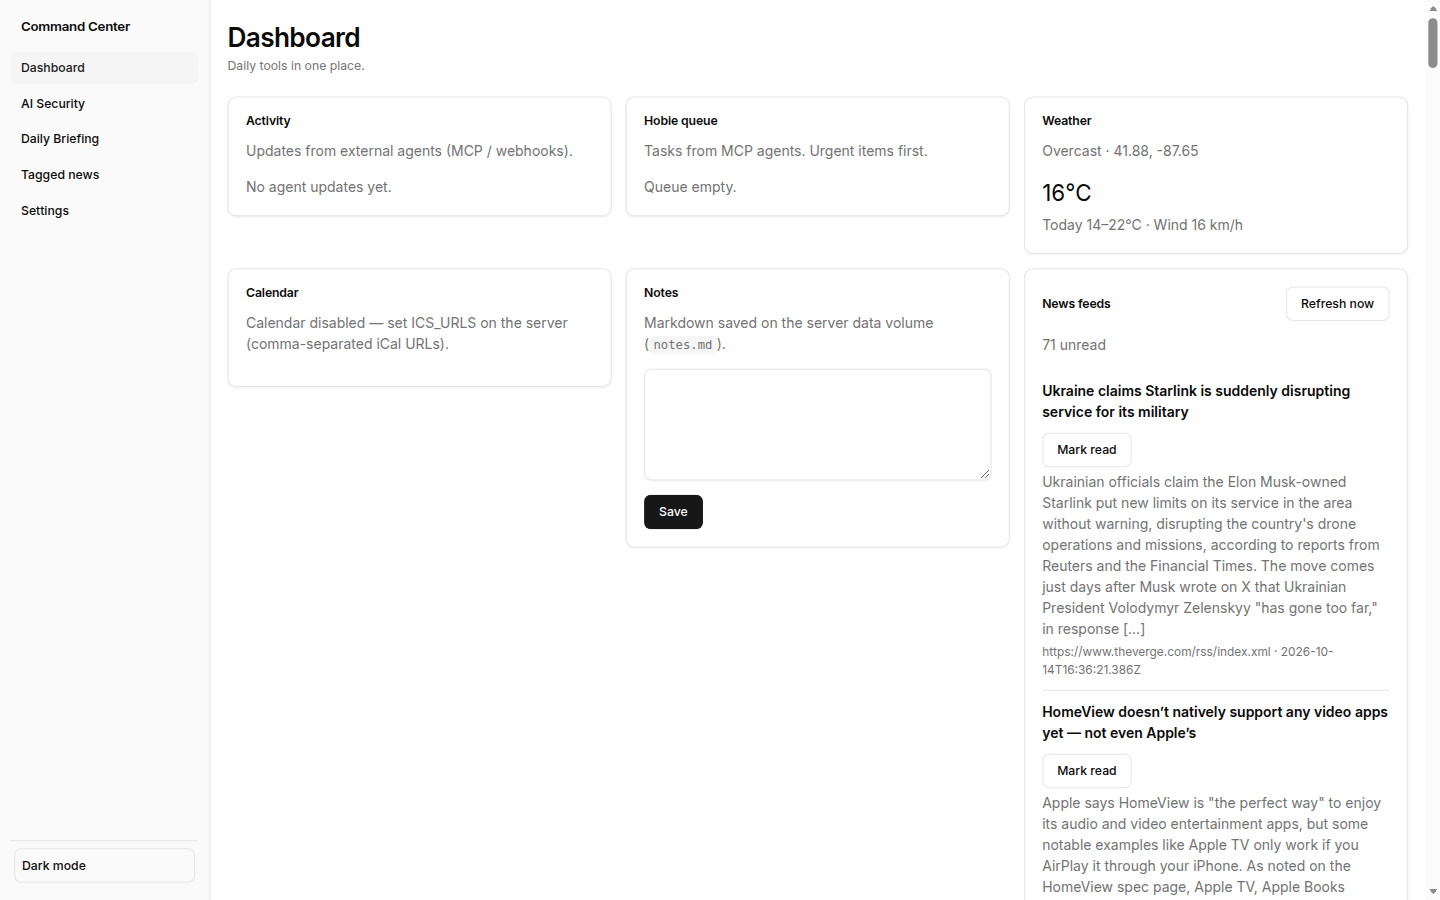
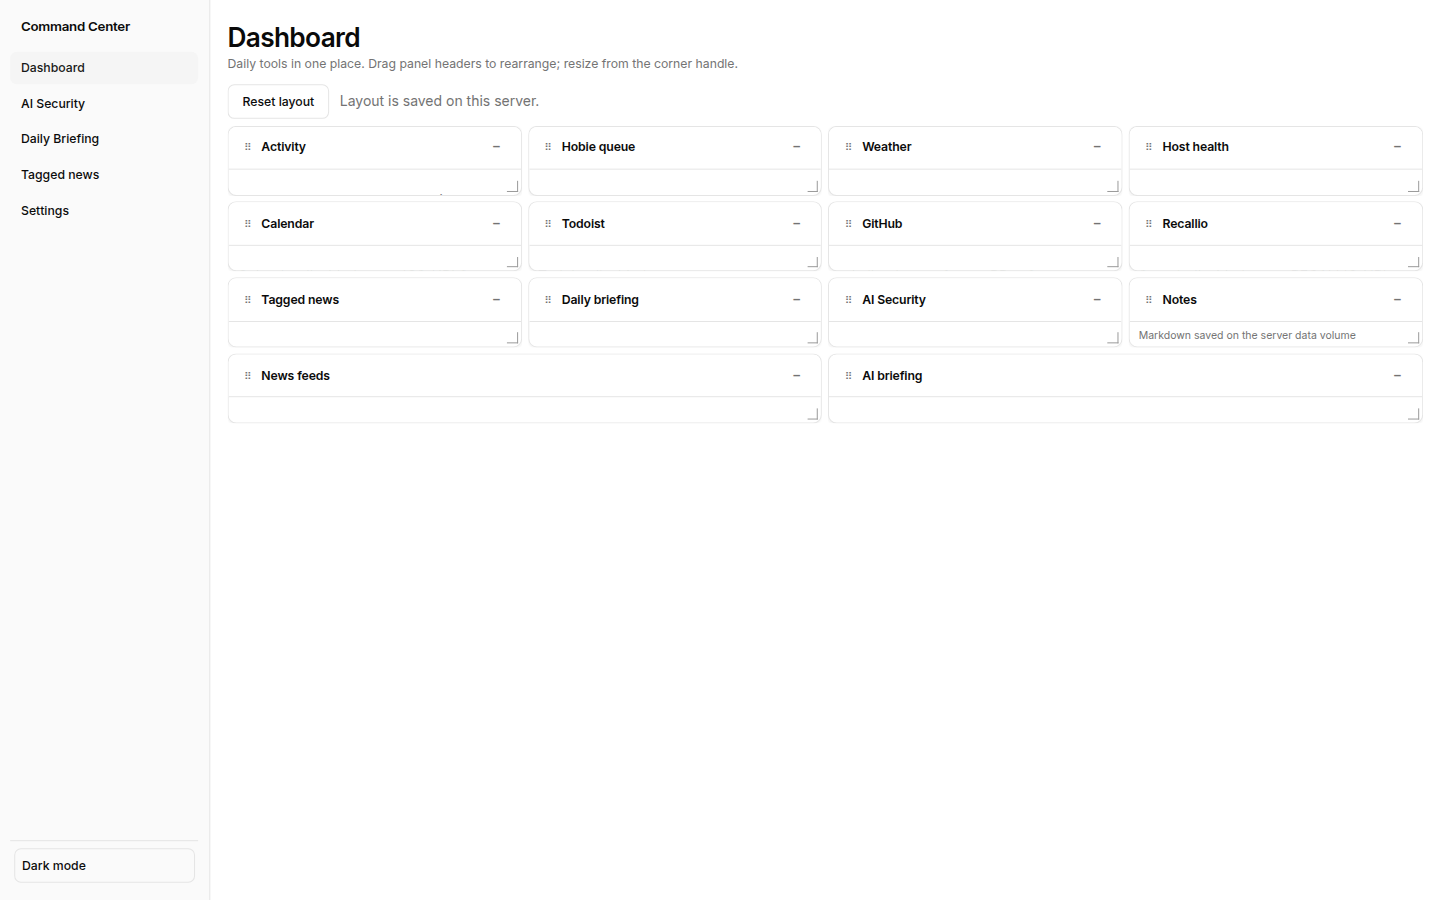
Fix compact dashboard: layout v2, capped feeds, no page scroll
SSR default grid positions, stricter tile overflow, headlines-only feeds
with expandable summaries, v1 layout migration, and 32px/8-row default.

diff --git a/apps/server/src/ui/dashboard-grid.ts b/apps/server/src/ui/dashboard-grid.ts
@@ -3,11 +3,18 @@
 export const dashboardGridCss = `
 .dashboard-toolbar{display:flex;flex-wrap:wrap;gap:.75rem;align-items:center;margin-bottom:1rem}
 .dashboard-toolbar .dim{margin:0}
+.app-main:has(.dashboard-page){overflow:hidden;max-height:100vh}
+.page-content:has(.dashboard-page){max-height:100vh;overflow:hidden;padding-bottom:.75rem;box-sizing:border-box}
+.dashboard-page{overflow:hidden;max-height:100%}
+.dashboard-page .page-header{margin-bottom:.75rem}
+.dashboard-page .page-header p{margin:.2rem 0 0}
+.dashboard-page .dashboard-toolbar{margin-bottom:.5rem}
 .dashboard-grid{
-  display:grid;grid-template-columns:repeat(12,minmax(0,1fr));gap:var(--dash-gap,8px);
-  grid-auto-rows:var(--dash-row,36px);position:relative;min-height:12rem;touch-action:none}
+  display:grid;grid-template-columns:repeat(12,minmax(0,1fr));gap:var(--dash-gap,6px);
+  grid-auto-rows:var(--dash-row,32px);position:relative;touch-action:none;
+  max-height:calc(100vh - 10.5rem);overflow:hidden}
 .dashboard-item{
-  min-width:0;min-height:0;display:flex;flex-direction:column;position:relative;
+  min-width:0;min-height:0;max-height:100%;overflow:hidden;display:flex;flex-direction:column;position:relative;
   grid-column:var(--gc-start)/span var(--gc-span);grid-row:var(--gr-start)/span var(--gr-span)}
 .dashboard-item.is-dragging{opacity:.92;z-index:30;box-shadow:0 8px 24px rgba(0,0,0,.12)}
 .dashboard-item.is-collapsed .dashboard-panel-body{display:none}
@@ -26,7 +33,8 @@ export const dashboardGridCss = `
 .dashboard-collapse{
   border:0;background:transparent;color:var(--muted-foreground);min-width:2rem;min-height:2rem;
   padding:.25rem;border-radius:calc(var(--radius) - 4px);font-size:1rem;line-height:1;cursor:pointer}
-.dashboard-panel-body{flex:1;min-height:0;overflow:auto;padding:.75rem 1rem 1rem;display:flex;flex-direction:column;gap:.5rem}
+.dashboard-panel-body{flex:1;min-height:0;overflow:hidden;padding:.5rem .65rem .65rem;display:flex;flex-direction:column;gap:.35rem}
+.dashboard-panel-body .panel-scroll-region{flex:1;min-height:0;overflow:auto}
 .dashboard-panel-body>.row:first-child{display:none}
 .dashboard-panel-body>h2:first-child{display:none}
 .dashboard-resize{
@@ -36,10 +44,18 @@ export const dashboardGridCss = `
   content:"";position:absolute;right:2px;bottom:2px;width:10px;height:10px;
   border-right:2px solid var(--muted-foreground);border-bottom:2px solid var(--muted-foreground);opacity:.7}
 .dashboard-item.is-collapsed .dashboard-resize{display:none}
-.dashboard-panel-scroll,.dashboard-panel-body #tn-list,.dashboard-panel-body #pdb-body,.dashboard-panel-body #as-dash-body{
-  flex:1;min-height:0;overflow:auto}
-#panel-feeds .feeds-panel-scroll,#panel-tagged-news .feeds-panel-scroll{max-height:9.5rem;border:1px solid var(--border);
-  border-radius:calc(var(--radius) - 2px);padding:0 .75rem}
+.feeds-panel-scroll{flex:1;min-height:0;overflow:auto;border:1px solid var(--border);
+  border-radius:calc(var(--radius) - 2px);padding:0 .5rem}
+.feed-headline{display:flex;gap:.35rem;align-items:flex-start;justify-content:space-between}
+.feed-headline summary{cursor:pointer;list-style:none;font-weight:600}
+.feed-headline summary::-webkit-details-marker{display:none}
+.feed-headline summary::before{content:"▸ ";font-size:.7rem;color:var(--muted-foreground)}
+details.feed-item[open] .feed-headline summary::before{content:"▾ "}
+.feed-item .feed-summary{margin:.25rem 0 .35rem;font-size:.8125rem}
+.feed-item .feed-meta{margin:0;font-size:.75rem}
+#panel-notes #notes-editor{min-height:0;max-height:4.5rem;resize:vertical;font-size:.8125rem}
+#panel-briefing #briefing-body{max-height:4.5rem;margin:0;font-size:.75rem}
+#panel-notes .dim{font-size:.75rem;margin:0}
 #panel-feeds .feeds-full-link{margin:.25rem 0 0;font-size:.8125rem}
 #panel-feeds .feeds-full-link a{text-decoration:underline;text-underline-offset:2px}
 @media(max-width:900px){
@@ -54,7 +70,7 @@ export function dashboardGridScript(): string {
 (function(){
   var grid=document.getElementById("dashboard-grid");
   if(!grid)return;
-  var COLS=12,ROW=36,GAP=8,saveTimer=null,lastMovedId=null;
+  var COLS=12,ROW=32,GAP=6,saveTimer=null,lastMovedId=null;
   grid.style.setProperty("--dash-row",ROW+"px");
   grid.style.setProperty("--dash-gap",GAP+"px");
 

diff --git a/apps/server/src/panels/feeds.ts b/apps/server/src/panels/feeds.ts
@@ -10,7 +10,7 @@ export const feedsPanel: PanelModule = {
   <div class="row"><h2 style="margin:0">News feeds</h2>
   <button type="button" class="ghost" id="feeds-refresh" style="margin-left:auto">Refresh now</button></div>
   <p class="dim" id="feeds-status">Loading…</p>
-  <div id="feeds-list" class="feeds-panel-scroll"></div>
+  <div id="feeds-list" class="feeds-panel-scroll panel-scroll-region"></div>
   <p class="feeds-full-link dim"><a href="/news">Open full tagged news view</a></p>
   <div class="row" style="margin-top:10px">
     <button type="button" class="ghost" id="feeds-mark-all">Mark all read</button>
@@ -60,17 +60,18 @@ function renderFeeds(data){
   var unread=data.unread||0;
   st.textContent=unread?unread+" unread":"All caught up";
   var html="";
-  (data.items||[]).forEach(function(it){
+  (data.items||[]).slice(0,40).forEach(function(it){
     var cls=it.read?"dim":"";
-    html+='<div class="feed-item '+cls+'" data-id="'+esc(it.id)+'">';
-    html+='<div class="row"><strong>'+(it.link?'<a href="'+esc(it.link)+'" target="_blank" rel="noopener">'+esc(it.title)+'</a>':esc(it.title))+'</strong>';
+    html+='<details class="feed-item '+cls+'" data-id="'+esc(it.id)+'">';
+    html+='<summary class="feed-headline"><span>'+(it.link?'<a href="'+esc(it.link)+'" target="_blank" rel="noopener">'+esc(it.title)+'</a>':esc(it.title))+'</span>';
     if(!it.read)html+='<button type="button" class="ghost mark-read" data-id="'+esc(it.id)+'">Mark read</button>';
-    html+='</div>';
-    if(it.summary)html+='<p class="dim" style="margin:.3em 0">'+esc(it.summary)+'</p>';
-    html+='<p class="dim" style="margin:0;font-size:.85rem">'+esc(it.feedId)+' · '+esc(it.firstSeenAt)+'</p></div>';
+    html+='</summary>';
+    if(it.summary)html+='<p class="feed-summary dim">'+esc(it.summary)+'</p>';
+    html+='<p class="feed-meta dim">'+esc(it.feedId)+' · '+esc(it.firstSeenAt)+'</p></details>';
   });
   document.getElementById("feeds-list").innerHTML=html||'<p class="dim">No items yet. Feeds refresh on a schedule, or click Refresh now.</p>';
-  document.querySelectorAll(".mark-read").forEach(function(b){b.onclick=function(){
+  document.querySelectorAll(".mark-read").forEach(function(b){b.onclick=function(e){
+    e.preventDefault();e.stopPropagation();
     api("/api/feeds/read","POST",{ids:[b.dataset.id]}).then(loadFeeds);
   }});
 }

diff --git a/apps/server/src/ui/pages.ts b/apps/server/src/ui/pages.ts
@@ -13,22 +13,32 @@ import { recallioDashboardScript } from "../panels/recallio";
 import { taggedNewsDashboardScript } from "../panels/tagged-news";
 import { todoistDashboardScript } from "../panels/todoist";
 import { weatherDashboardScript } from "../panels/weather";
+import { defaultDashboardLayout } from "../dashboard-layout/defaults";
 import { dashboardGridScript } from "./dashboard-grid";
 import { page } from "./layout";
 
+function panelGridStyle(entry: { x: number; y: number; w: number; h: number }): string {
+  return `--gc-start:${entry.x + 1};--gc-span:${entry.w};--gr-start:${entry.y + 1};--gr-span:${entry.h}`;
+}
+
 export function dashboardPage(): string {
+  const layout = defaultDashboardLayout(panels.map((p) => p.id));
+  const byId = new Map(layout.panels.map((p) => [p.id, p]));
   const sections = panels
-    .map((p) => `<div class="dashboard-item" data-panel-id="${p.id}">${p.dashboardHtml}</div>`)
+    .map((p) => {
+      const entry = byId.get(p.id)!;
+      return `<div class="dashboard-item" data-panel-id="${p.id}" style="${panelGridStyle(entry)}">${p.dashboardHtml}</div>`;
+    })
     .join("\n");
   return page({
     title: "Command center",
     active: "/",
-    body: `<header class="page-header"><h1>Dashboard</h1><p class="dim">Daily tools in one place. Drag panel headers to rearrange; resize from the corner handle.</p></header>
+    body: `<div class="dashboard-page"><header class="page-header"><h1>Dashboard</h1><p class="dim">Daily tools in one place. Drag panel headers to rearrange; resize from the corner handle.</p></header>
 <div class="dashboard-toolbar">
   <button type="button" class="ghost" id="dashboard-reset-layout">Reset layout</button>
   <p class="dim">Layout is saved on this server.</p>
 </div>
-<div class="dashboard-grid" id="dashboard-grid">${sections}</div>`,
+<div class="dashboard-grid" id="dashboard-grid">${sections}</div></div>`,
     script: `${dashboardGridScript()}${activityDashboardScript()}${hobieDashboardScript()}${taggedNewsDashboardScript()}${dailyBriefingDashboardScript()}${aiSecurityDashboardScript()}${weatherDashboardScript()}${calendarDashboardScript()}${notesDashboardScript()}${feedsDashboardScript()}${briefingDashboardScript()}${todoistDashboardScript()}${hostHealthDashboardScript()}${githubDashboardScript()}${recallioDashboardScript()}`,
   });
 }

diff --git a/apps/server/src/dashboard-layout/normalize.ts b/apps/server/src/dashboard-layout/normalize.ts
@@ -1,8 +1,8 @@
 import { ValidationError } from "../settings";
-import { defaultEntryForPanel } from "./defaults";
+import { defaultDashboardLayout, defaultEntryForPanel } from "./defaults";
 import { maxOccupiedRow } from "./pack";
 import type { DashboardLayout, PanelLayoutEntry } from "./types";
-import { GRID_COLS, LAYOUT_VERSION } from "./types";
+import { GRID_COLS, GRID_ROW_HEIGHT_PX, LAYOUT_VERSION } from "./types";
 
 function clampInt(n: number, min: number, max: number, field: string): number {
   if (!Number.isFinite(n) || Math.floor(n) !== n) throw new ValidationError(`${field} must be an integer`);
@@ -31,7 +31,18 @@ function normalizeEntry(raw: PanelLayoutEntry, knownIds: Set<string>): PanelLayo
 export function normalizeDashboardLayout(raw: unknown, panelIds: readonly string[]): DashboardLayout {
   if (!raw || typeof raw !== "object") throw new ValidationError("layout must be an object");
   const body = raw as DashboardLayout;
-  if (body.version !== LAYOUT_VERSION) throw new ValidationError("unsupported layout version");
+  if (body.version !== LAYOUT_VERSION) {
+    const fresh = defaultDashboardLayout(panelIds);
+    if (!Array.isArray(body.panels)) return fresh;
+    const collapsed = new Map<string, boolean>();
+    for (const entry of body.panels) {
+      if (entry && typeof entry === "object" && typeof (entry as PanelLayoutEntry).id === "string") {
+        if ((entry as PanelLayoutEntry).collapsed) collapsed.set((entry as PanelLayoutEntry).id, true);
+      }
+    }
+    fresh.panels = fresh.panels.map((p) => (collapsed.get(p.id) ? { ...p, collapsed: true } : p));
+    return fresh;
+  }
   if (!Array.isArray(body.panels)) throw new ValidationError("layout.panels must be an array");
 
   const known = new Set(panelIds);
@@ -57,7 +68,7 @@ export function normalizeDashboardLayout(raw: unknown, panelIds: readonly string
   return {
     version: LAYOUT_VERSION,
     cols: GRID_COLS,
-    rowHeight: typeof body.rowHeight === "number" && body.rowHeight > 0 ? body.rowHeight : 36,
+    rowHeight: typeof body.rowHeight === "number" && body.rowHeight > 0 ? body.rowHeight : GRID_ROW_HEIGHT_PX,
     panels,
   };
 }

diff --git a/apps/server/test/dashboard-layout.test.ts b/apps/server/test/dashboard-layout.test.ts
@@ -43,9 +43,9 @@ test("dashboard layout: pack pushes overlapping panels down", () => {
 
 test("dashboard layout: missing panels append below saved layout", () => {
   const raw = {
-    version: 1,
+    version: 2,
     cols: 12,
-    rowHeight: 36,
+    rowHeight: 32,
     panels: [{ id: "weather", x: 0, y: 0, w: 3, h: 3 }],
   };
   const next = normalizeDashboardLayout(raw, PANEL_IDS);
@@ -59,11 +59,28 @@ test("dashboard layout: missing panels append below saved layout", () => {
   }
 });
 
-test("dashboard layout: normalize adds missing panels and drops unknown ids", () => {
+test("dashboard layout: v1 saved file migrates to v2 compact default", () => {
   const raw = {
     version: 1,
     cols: 12,
     rowHeight: 36,
+    panels: [
+      { id: "feeds", x: 0, y: 0, w: 12, h: 12 },
+      { id: "weather", x: 0, y: 0, w: 3, h: 3, collapsed: true },
+    ],
+  };
+  const next = normalizeDashboardLayout(raw, PANEL_IDS);
+  assert.equal(next.version, 2);
+  assert.equal(next.panels.length, PANEL_IDS.length);
+  assert.equal(next.panels.find((p) => p.id === "weather")?.collapsed, true);
+  assert.equal(next.panels.find((p) => p.id === "feeds")?.h, 2);
+});
+
+test("dashboard layout: normalize adds missing panels and drops unknown ids", () => {
+  const raw = {
+    version: 2,
+    cols: 12,
+    rowHeight: 32,
     panels: [{ id: "weather", x: 1, y: 2, w: 3, h: 4, collapsed: true }],
   };
   const next = normalizeDashboardLayout(raw, PANEL_IDS);

diff --git a/apps/server/src/dashboard-layout/defaults.ts b/apps/server/src/dashboard-layout/defaults.ts
@@ -2,8 +2,8 @@ import type { DashboardLayout, PanelLayoutEntry } from "./types";
 import { GRID_COLS, GRID_ROW_HEIGHT_PX, LAYOUT_VERSION } from "./types";
 
 /**
- * Compact mosaic for 14 panels (~9 grid rows). Fits above the fold on 1280×800 with
- * header/toolbar when panels use internal scroll (row height 36px + 8px gaps ≈ 388px grid).
+ * 14 equal tiles in 8 grid rows (32px rows + 6px gaps ≈ 298px) — fits 1280×800 with
+ * header/toolbar and no page scroll when panel bodies use internal overflow.
  */
 export const DEFAULT_PANEL_LAYOUT: PanelLayoutEntry[] = [
   { id: "activity", x: 0, y: 0, w: 3, h: 2 },
@@ -18,8 +18,8 @@ export const DEFAULT_PANEL_LAYOUT: PanelLayoutEntry[] = [
   { id: "daily-briefing", x: 3, y: 4, w: 3, h: 2 },
   { id: "ai-security", x: 6, y: 4, w: 3, h: 2 },
   { id: "notes", x: 9, y: 4, w: 3, h: 2 },
-  { id: "feeds", x: 0, y: 6, w: 6, h: 3 },
-  { id: "briefing", x: 6, y: 6, w: 6, h: 3 },
+  { id: "feeds", x: 0, y: 6, w: 6, h: 2 },
+  { id: "briefing", x: 6, y: 6, w: 6, h: 2 },
 ];
 
 const DEFAULT_BY_ID = new Map(DEFAULT_PANEL_LAYOUT.map((p) => [p.id, p]));

diff --git a/apps/server/src/panels/ai-security-panel.ts b/apps/server/src/panels/ai-security-panel.ts
@@ -6,7 +6,7 @@ export const aiSecurityPanel: PanelModule = {
   dashboardHtml: `
 <section class="card" id="panel-ai-security">
   <p class="dim" id="as-dash-meta">Loading…</p>
-  <div id="as-dash-body" class="dashboard-panel-scroll"></div>
+  <div id="as-dash-body" class="panel-scroll-region"></div>
   <p class="feeds-full-link dim"><a href="/ai-security">Open AI Security roundup</a></p>
 </section>`,
 };

diff --git a/apps/server/src/panels/tagged-news.ts b/apps/server/src/panels/tagged-news.ts
@@ -6,7 +6,7 @@ export const taggedNewsPanel: PanelModule = {
   dashboardHtml: `
 <section class="card" id="panel-tagged-news">
   <p class="dim" id="tn-status">Loading…</p>
-  <div id="tn-list" class="feeds-panel-scroll"></div>
+  <div id="tn-list" class="feeds-panel-scroll panel-scroll-region"></div>
   <p class="feeds-full-link dim"><a href="/news">Open full tagged news view</a></p>
 </section>`,
 };

diff --git a/apps/server/src/panels/daily-briefing-panel.ts b/apps/server/src/panels/daily-briefing-panel.ts
@@ -6,7 +6,7 @@ export const dailyBriefingPanel: PanelModule = {
   dashboardHtml: `
 <section class="card" id="panel-daily-briefing">
   <p class="dim" id="pdb-meta">Loading…</p>
-  <div id="pdb-body" class="dashboard-panel-scroll"></div>
+  <div id="pdb-body" class="panel-scroll-region"></div>
   <p class="feeds-full-link dim"><a href="/briefing">Open full daily briefing</a></p>
 </section>`,
 };

diff --git a/apps/server/src/dashboard-layout/types.ts b/apps/server/src/dashboard-layout/types.ts
@@ -1,7 +1,7 @@
-export const LAYOUT_VERSION = 1;
+export const LAYOUT_VERSION = 2;
 export const GRID_COLS = 12;
-export const GRID_ROW_HEIGHT_PX = 36;
-export const GRID_GAP_PX = 8;
+export const GRID_ROW_HEIGHT_PX = 32;
+export const GRID_GAP_PX = 6;
 
 export interface PanelLayoutEntry {
   id: string;
